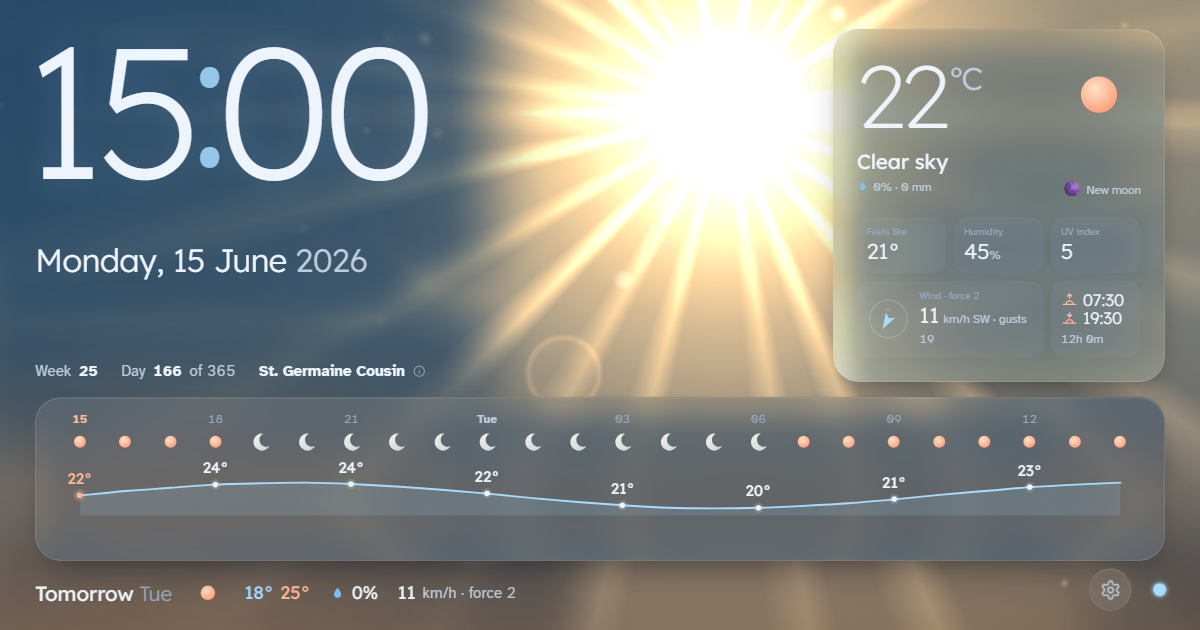
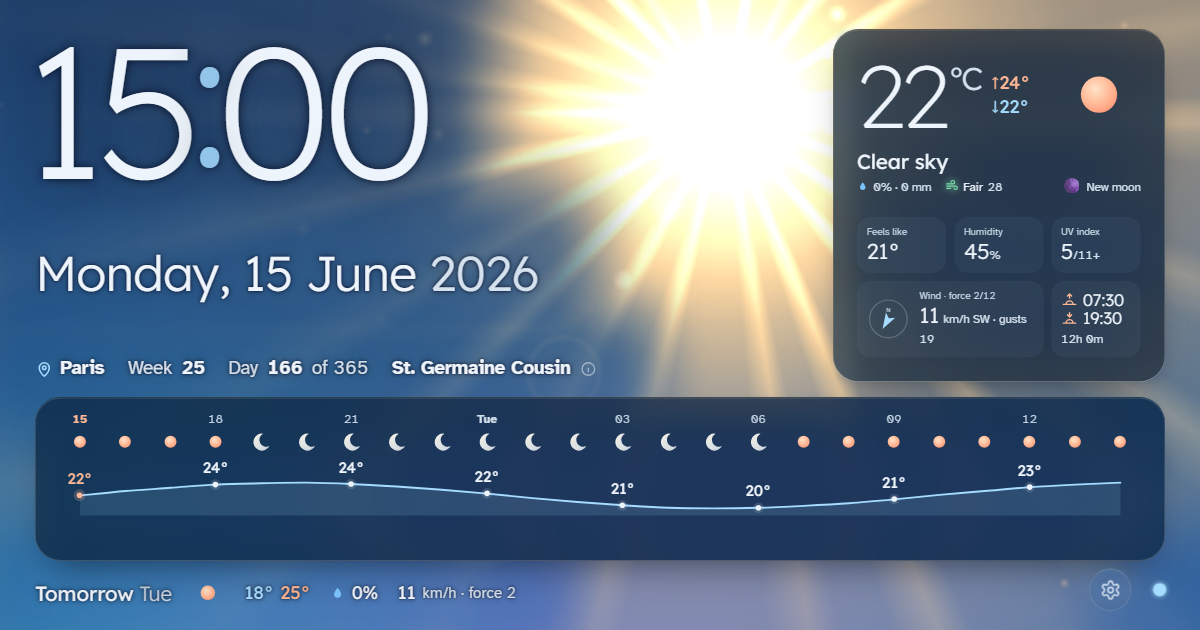
fix(legibility,layout): shadow-only hero contrast, bigger temp range, SEO copy
Drop the always-on sky scrim and the "fixed, top-left behind the clock"
field-high gradient (both background-based contrast crutches) in favor of
a stronger text-shadow halo on the clock/date/tomorrow strip; the photo
dim slider is untouched. Bump the min/max temperature readout size now
that there's spare room next to it. Regenerate product screenshots/OG
image, and drop the "works offline" SEO claim since cached weather can go
stale indefinitely without a connection.

diff --git a/src/components/Layout.svelte b/src/components/Layout.svelte
@@ -22,10 +22,12 @@
 
 <!--
   Background stack, back to front: gradient sky, a slot phase 4 (photos)
-  drops a rotating <img> into, and a scrim that keeps text readable over
-  either. The slot exists now (rendering the `bg` snippet, empty when no
-  Background component is passed) so later work never has to touch this
-  layout to wire a background image in.
+  drops a rotating <img> into, and a scrim that applies the user's photo-dim
+  slider when a photo is showing (text contrast over the plain sky and over
+  photos comes from text-shadow on the text itself, not a dim layer — see
+  the `.hero, .tm` rule below). The slot exists now (rendering the `bg`
+  snippet, empty when no Background component is passed) so later work
+  never has to touch this layout to wire a background image in.
 
   Full stacking order (z-index; same z paints in DOM order):
     0  .bg-photo      rotating photo (bg slot)
@@ -101,7 +103,6 @@
   .bg-sky {
     z-index: 1;
     background:
-      radial-gradient(55% 50% at 12% 15%, var(--field-high), transparent),
       radial-gradient(60% 50% at 55% 105%, var(--field-low), transparent),
       linear-gradient(
         180deg,
@@ -150,29 +151,21 @@
     }
   }
 
-  /* Alpha tuned for a pure-white photo, blended the way browsers actually
-     blend (gamma-encoded sRGB), so text keeps >=4.5:1 (WCAG AA) over any
-     image dropped into [data-bg-slot="photo"] later. */
+  /* Invisible with no background declared — only [data-photo] below ever
+     paints it. Text contrast over the plain sky comes from text-shadow on
+     the text itself (see `.hero, .tm`), not from dimming the sky. */
   .scrim {
     z-index: 2;
-    opacity: 0.25;
-    background:
-      radial-gradient(
-        120% 90% at 30% 35%,
-        rgb(10 23 38 / 0.7),
-        rgb(10 23 38 / 0.82)
-      ),
-      linear-gradient(180deg, rgb(10 23 38 / 0.2), rgb(10 23 38 / 0.35));
   }
-  /* The only dim over a photo: its strength is the user's dim slider
-     (`--photo-scrim`, set by Background.svelte), slightly deeper behind the
-     clock, which has no glass panel of its own. Stacking a fixed floor or a
-     blur on top of the slider left photos barely visible at any setting. */
+  /* The photo's own dim slider (`--photo-scrim`, set by Background.svelte) —
+     purely the user's taste setting, not a text-contrast hack. Stacking a
+     fixed floor or a blur on top of it left photos barely visible at any
+     setting. */
   :global([data-photo]) .scrim {
     opacity: 1;
     background: radial-gradient(
       120% 90% at 30% 35%,
-      rgb(10 23 38 / min(1, calc(var(--photo-scrim, 0.55) + 0.1))),
+      rgb(10 23 38 / var(--photo-scrim, 0.55)),
       rgb(10 23 38 / var(--photo-scrim, 0.55))
     );
   }
@@ -199,13 +192,15 @@
     }
   }
 
-  /* Text straight on the sky, no glass: the sun, moon and fog pass behind
-     it, and this halo only shows over them. */
+  /* Text straight on the sky, no glass and no dim layer behind it: the sun,
+     moon, fog and aurora all pass directly behind this text, so the halo
+     alone (tight dark edge, mid blur, wide soft falloff) carries contrast. */
   .hero,
   .tm {
     text-shadow:
-      0 0 0.12em rgb(4 10 32 / 0.75),
-      0 0 0.45em rgb(4 10 32 / 0.6);
+      0 0 0.05em rgb(4 10 32 / 0.9),
+      0 0 0.25em rgb(4 10 32 / 0.75),
+      0 0 0.5em rgb(4 10 32 / 0.4);
   }
   .hero {
     grid-area: hero;

diff --git a/src/lib/design-tokens.css b/src/lib/design-tokens.css
@@ -50,7 +50,6 @@
   --sky-2: #0f2650;
   --pool-low: rgb(40 220 200 / 0.32); /* drifting teal */
   --pool-high: rgb(70 140 255 / 0.3); /* drifting azure */
-  --field-high: rgb(60 130 255 / 0.4); /* fixed, top-left behind the clock */
   --field-low: rgb(150 110 255 / 0.45); /* fixed, violet under the timeline */
 
   --text: #eef4fb; /* primary */
@@ -139,16 +138,12 @@
    dusk under a "Clear sky" label reads as evening, not sunshine, so sunlit
    daytime warms the sky, light pools and glass. Base text colours are kept
    and must stay >=4.5:1 on these (checked by tests/visual). */
-/* The sunny top-left field is saturated rather than light: the sun's glare
-   already brightens that corner, and a paler blue would drop the clock's
-   contrast. */
 :root[data-sky='sunny'] {
   --sky-0: #0e3466;
   --sky-1: #154c88;
   --sky-2: #1a5a97;
   --pool-low: rgb(80 210 255 / 0.3);
   --pool-high: rgb(255 210 140 / 0.45);
-  --field-high: rgb(30 110 255 / 0.65);
   --field-low: rgb(140 130 255 / 0.45);
   --glass: rgb(60 130 220 / 0.14);
   --glass-edge: rgb(255 228 196 / 0.22);
@@ -165,7 +160,6 @@
   --sky-2: #16457a;
   --pool-low: rgb(70 200 240 / 0.28);
   --pool-high: rgb(255 204 140 / 0.26);
-  --field-high: rgb(45 120 255 / 0.5);
   --field-low: rgb(145 120 255 / 0.45);
   --glass-dim: 0.7;
 }

diff --git a/index.html b/index.html
@@ -6,7 +6,7 @@
     <title>Weather Dash — Fullscreen weather &amp; date wall display</title>
     <meta
       name="description"
-      content="Weather Dash turns any phone, tablet, PC or TV into an always-on wall display: live weather, 24-hour forecast, clock, date, holidays and saints. Free, private, works offline."
+      content="Weather Dash turns any phone, tablet, PC or TV into an always-on wall display: live weather, 24-hour forecast, clock, date, holidays and saints. Free, private, no account needed."
     />
     <meta name="theme-color" content="#0a1726" />
     <meta name="color-scheme" content="dark" />
@@ -30,7 +30,7 @@
     />
     <meta
       property="og:description"
-      content="Live weather, 24-hour forecast, clock and date on any screen, 24/7. Free, private, works offline."
+      content="Live weather, 24-hour forecast, clock and date on any screen, 24/7. Free, private, no account needed."
     />
     <meta
       property="og:image"

diff --git a/src/components/HeroClock.svelte b/src/components/HeroClock.svelte
@@ -82,10 +82,12 @@
     letter-spacing: -0.045em;
     margin-left: -0.06em;
     white-space: nowrap;
-    /* Dark edge first: the sun crosses behind the digits in portrait. */
+    /* Dark edge first: the sun crosses behind the digits in portrait. Own
+       declared text-shadow, so it replaces rather than adds to Layout.svelte's
+       `.hero` halo — kept at the same strength as that one. */
     text-shadow:
-      0 0 0.02em rgb(4 10 32 / 0.7),
-      0 0 0.08em rgb(4 10 32 / 0.45),
+      0 0 0.05em rgb(4 10 32 / 0.9),
+      0 0 0.25em rgb(4 10 32 / 0.75),
       0 0 60px rgb(166 220 255 / 0.18);
   }
   .sep {

diff --git a/src/components/CurrentWeather.svelte b/src/components/CurrentWeather.svelte
@@ -318,7 +318,9 @@
     flex-direction: column;
     gap: 0.2em;
     font-family: var(--display);
-    font-size: var(--fs-m);
+    /* A bit bigger than --fs-m: the hero icon beside it leaves spare room,
+       but it still reads secondary to the big --fs-temp figure. */
+    font-size: max(19px, calc(var(--u) * 1.85));
     line-height: 1.1;
     white-space: nowrap;
   }
